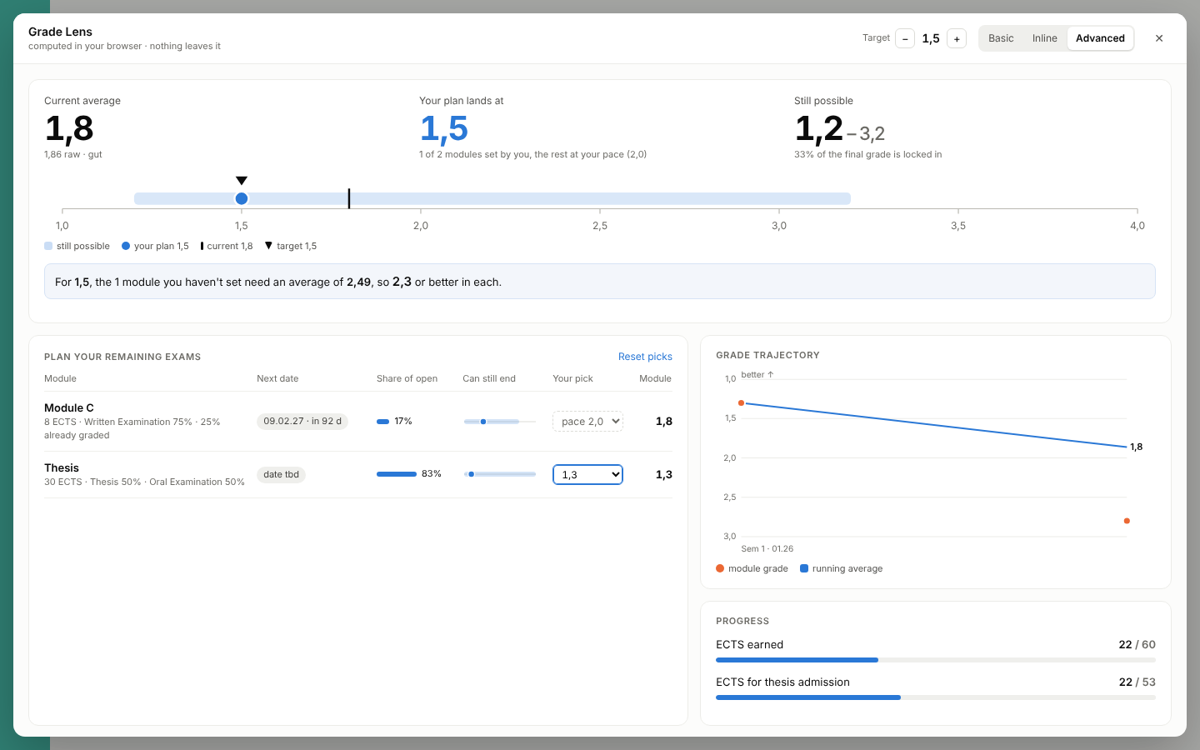
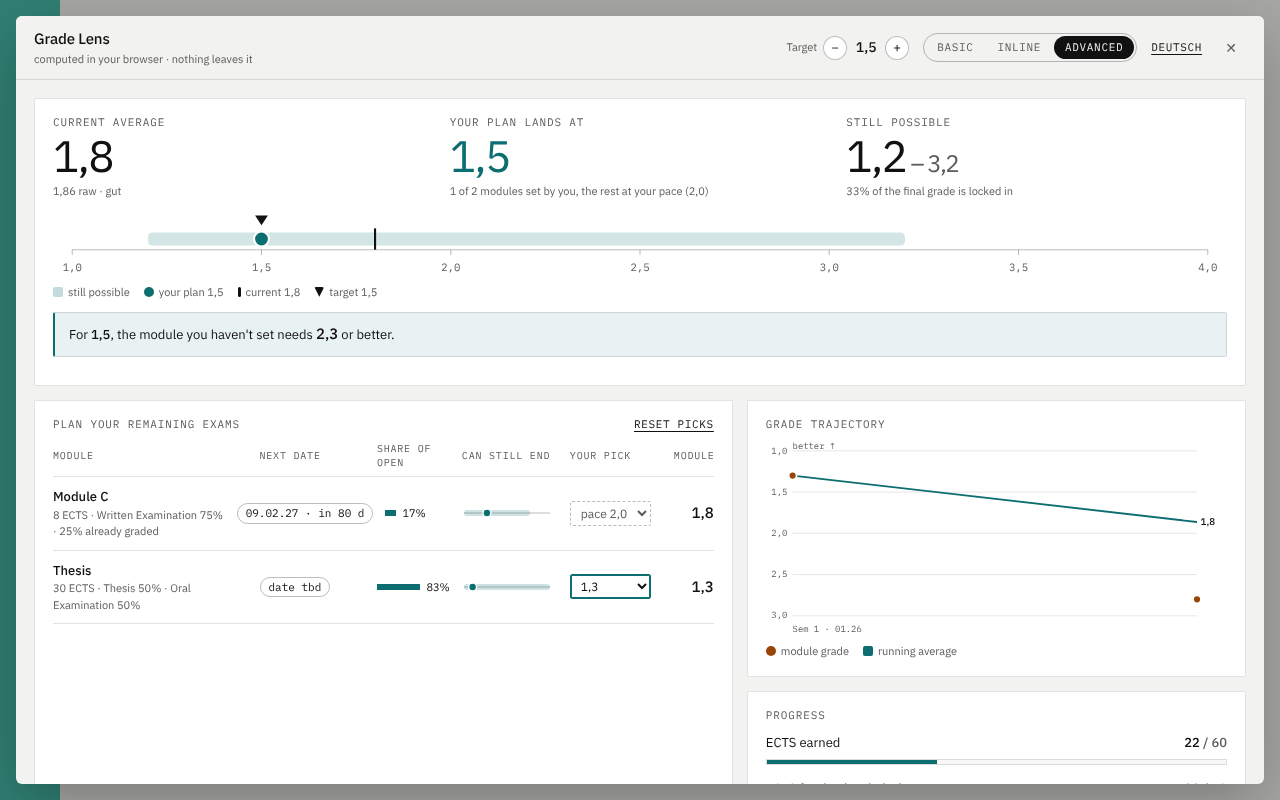
Release 1.0.0: MIT licence, store listing and screenshots, build script, real-extension test
- manifest 1.0.0 with _locales (en, de), homepage, web-accessible fonts
- scripts/build.sh -> dist/gradelens-1.0.0.zip (only what the extension needs)
- store/LISTING.md: EN and DE text, single purpose, permission reasons, data use
- store/screenshots: 1280x800 from the synthetic fixture, EN and DE, light and dark
- test/e2e/extension.py: loads the built zip in Chrome against a stand-in oc-digital.de
  page; checks the real hook, the study book and the bundled font
- README: German, dark mode, exact maths, known postMessage limit, privacy link; CHANGELOG
- inline bar: spacing between view switch and language link

diff --git a/src/panel.js b/src/panel.js
@@ -746,6 +746,7 @@
       border-left: 2px solid var(--accent); border-radius: 2px; padding: 12px 16px; }
     .ib-left { display: flex; flex-wrap: wrap; align-items: center; gap: 18px; }
     .ib-left strong { font-size: 15px; font-weight: 500; }
+    .ib-right { display: flex; align-items: center; gap: 14px; }
     .kv { display: inline-flex; align-items: baseline; gap: 6px; } .kv b { font-size: 20px; font-weight: 400; font-variant-numeric: tabular-nums; }
     .ib-need { grid-column: 1 / -1; display: flex; flex-wrap: wrap; align-items: center; gap: 4px 14px; }
     .ib-need .need { margin: 0; padding: 6px 10px; }`;

diff --git a/test/e2e/extension.py b/test/e2e/extension.py
@@ -1,0 +1,31 @@
+"""Loads the built zip as a real unpacked extension and serves a fake oc-digital.de page,
+so the real content scripts, i18n, fonts and storage run as they would for a student.
+Usage: sh scripts/build.sh && python3 test/e2e/extension.py /path/to/unzipped"""
+import os, sys, pathlib, tempfile
+from playwright.sync_api import sync_playwright
+ext = sys.argv[1]
+root = pathlib.Path(__file__).resolve().parents[2]
+page_html = (root / "test/e2e/harness.html").read_text()
+# the real extension injects its own scripts: strip the harness copies and the test-only shim
+page_html = "\n".join(l for l in page_html.splitlines() if "<script" not in l and "chrome.runtime =" not in l)
+fx = (root / "test/fixture.studybook.json").read_text()
+ok = True
+with sync_playwright() as p:
+    ctx = p.chromium.launch_persistent_context(tempfile.mkdtemp(), executable_path=os.environ.get("CHROME_PATH") or None,
+        headless=True, args=[f"--disable-extensions-except={ext}", f"--load-extension={ext}", "--headless=new"], viewport={"width": 1440, "height": 900})
+    ctx.route("https://oc-digital.de/**", lambda r: r.fulfill(status=200, content_type="text/html", body=page_html + """
+<script>fetch('/campus/api/epm/studybook/1').then(r=>r.text())</script>""") if "studybook" not in r.request.url else r.fulfill(status=200, content_type="application/json", body=fx))
+    pg = ctx.new_page(); errs = []; pg.on("pageerror", lambda e: errs.append(str(e)))
+    pg.goto("https://oc-digital.de/node/6148"); pg.wait_for_timeout(1500)
+    has = pg.evaluate("!!document.getElementById('grade-lens-root')")
+    print("content script attached:", "PASS" if has else "FAIL"); ok &= has
+    pg.evaluate("document.getElementById('grade-lens-root').shadowRoot.querySelector('.launcher').click()"); pg.wait_for_timeout(600)
+    big = pg.evaluate("document.getElementById('grade-lens-root').shadowRoot.querySelector('.big')?.textContent")
+    print("study book read through the real hook:", big, "PASS" if big == "1,8" else "FAIL"); ok &= big == "1,8"
+    font = pg.evaluate("document.fonts.check('16px \"GL Plex Sans\"') && [...document.fonts].some(f => f.family.includes('GL Plex') && f.status === 'loaded')")
+    print("bundled font loaded:", "PASS" if font else "FAIL"); ok &= bool(font)
+    sw = [w.url for w in ctx.service_workers]
+    print("page errors:", errs); ok &= not errs
+    pg.screenshot(path=str(root / "test/e2e/out/ext_dashboard.png"))
+    ctx.close()
+sys.exit(0 if ok else 1)

diff --git a/test/e2e/shots.py b/test/e2e/shots.py
@@ -1,0 +1,28 @@
+"""Store and README screenshots from the synthetic fixture (never real grades). 1280x800 as the Chrome Web Store asks."""
+import os, pathlib
+from playwright.sync_api import sync_playwright
+root = pathlib.Path(__file__).resolve().parents[2]
+fx = (root / "test/fixture.studybook.json").read_text()
+R = "document.getElementById('grade-lens-root').shadowRoot"
+def load(pg, lang):
+    pg.goto("http://localhost:8765/test/e2e/harness.html"); pg.wait_for_timeout(300)
+    pg.evaluate("t => window.postMessage({source:'fom-grade-lens',kind:'studybook',url:'https://oc-digital.de/campus/api/epm/studybook/1',text:t}, location.origin)", fx)
+    pg.wait_for_timeout(200)
+    pg.evaluate(f"{R}.querySelector('.launcher').click()"); pg.wait_for_timeout(200)
+    if lang == "de": pg.evaluate(f"{R}.querySelector('[data-act=lang]').click()"); pg.wait_for_timeout(200)
+    pg.evaluate(f"""() => {{ const s=[...{R}.querySelectorAll('select[data-mod]')].find(x=>x.getAttribute('aria-label').includes('Thesis')); s.value='1.3'; s.dispatchEvent(new Event('change',{{bubbles:true}})); }}"""); pg.wait_for_timeout(200)
+with sync_playwright() as p:
+    b = p.chromium.launch(executable_path=os.environ.get("CHROME_PATH") or None)
+    for lang in ("en", "de"):
+        for scheme in ("light", "dark"):
+            pg = b.new_page(viewport={"width": 1280, "height": 800}, color_scheme=scheme)
+            load(pg, lang)
+            pg.screenshot(path=str(root / f"store/screenshots/{lang}-1-advanced-{scheme}.png"))
+            if scheme == "light":
+                pg.evaluate(f"{R}.querySelector('[data-view=drawer]').click()"); pg.wait_for_timeout(250)
+                pg.screenshot(path=str(root / f"store/screenshots/{lang}-2-basic.png"))
+                pg.evaluate(f"{R}.querySelector('[data-view=inline]').click()"); pg.wait_for_timeout(500)
+                pg.screenshot(path=str(root / f"store/screenshots/{lang}-3-inline.png"))
+            pg.close()
+    b.close()
+print("ok")

diff --git a/test/e2e/run_all.py b/test/e2e/run_all.py
@@ -8,6 +8,13 @@ try:
         print(f"== {t} =="); out = subprocess.run([sys.executable, f"test/e2e/{t}"], capture_output=True, text=True)
         print(out.stdout.strip()); 
         if out.returncode or "FAIL" in out.stdout or "Error" in out.stderr: failed = True; print(out.stderr[-2000:])
+    # the built extension, loaded for real in Chrome against a fake oc-digital.de page
+    import tempfile, zipfile
+    z = subprocess.run(["sh", "scripts/build.sh"], capture_output=True, text=True).stdout.split()[0]
+    d = tempfile.mkdtemp(); zipfile.ZipFile(z).extractall(d)
+    print("== extension.py =="); out = subprocess.run([sys.executable, "test/e2e/extension.py", d], capture_output=True, text=True)
+    print(out.stdout.strip())
+    if out.returncode: failed = True; print(out.stderr[-2000:])
 finally:
     srv.terminate()
 sys.exit(1 if failed else 0)

diff --git a/store/LISTING.md b/store/LISTING.md
@@ -1,0 +1,79 @@
+# Chrome Web Store listing
+
+Everything to paste into the developer dashboard for v1.0.0. Upload file: `dist/gradelens-1.0.0.zip` (`npm run build`).
+
+## Store listing
+
+**Name** (from `_locales`): Grade Lens for FOM · German: Grade Lens für die FOM
+
+**Summary** (max 132 characters, from `_locales`):
+- EN: Your FOM grade trajectory, final-grade range and what you need in each open exam. Runs entirely in your browser.
+- DE: Dein FOM-Notenverlauf, die mögliche Endnote und was du in jeder offenen Prüfung brauchst. Läuft komplett im Browser.
+
+**Category:** Education
+
+**Language:** English (default), German
+
+**Description (EN):**
+
+Grade Lens is a free, independent tool for students at FOM University of Applied Sciences.
+
+Open Study progress in the FOM Online Campus and Grade Lens shows you:
+- your current average and how it got there, module by module
+- the range your final grade can still land in, and how much of it is already fixed
+- what you need in each open exam to reach the final grade you aim for
+- your next exam dates, with the next 14 days highlighted
+
+Pick the grade you expect in each open module and the final grade updates as you go. Choose from three views: a side panel, small notes on FOM's own module cards, or a full dashboard. English and German.
+
+Private by design: Grade Lens only reads the study book the portal already loads for you. It sends nothing anywhere, has no server, no account and no tracking. Your view, target and picks are saved on your own device only.
+
+Independent student project, not affiliated with or endorsed by FOM. The final-grade formula is an assumption (ECTS-weighted mean of module grades, truncated after the first decimal); check it against your Prüfungsordnung.
+
+Source code (MIT): https://github.com/omkar-k0/gradelens
+
+**Description (DE):**
+
+Grade Lens ist ein kostenloses, unabhängiges Tool für Studierende der FOM Hochschule.
+
+Öffne den Studienverlauf im FOM Online Campus und Grade Lens zeigt dir:
+- deinen aktuellen Schnitt und wie er sich Modul für Modul entwickelt hat
+- in welchem Bereich deine Endnote noch landen kann und wie viel davon schon feststeht
+- was du in jeder offenen Prüfung für deine Wunsch-Endnote brauchst
+- deine nächsten Prüfungstermine, die nächsten 14 Tage hervorgehoben
+
+Wähle für jedes offene Modul die Note, die du erwartest, und die Endnote passt sich sofort an. Drei Ansichten: Seitenleiste, kurze Hinweise auf den Modulkarten der FOM oder ein volles Dashboard. Auf Deutsch und Englisch.
+
+Datensparsam: Grade Lens liest nur das Studienbuch, das das Portal ohnehin für dich lädt. Es sendet nichts, hat keinen Server, kein Konto und kein Tracking. Ansicht, Ziel und deine Auswahl werden nur auf deinem Gerät gespeichert.
+
+Unabhängiges Studierendenprojekt, nicht mit der FOM verbunden oder von ihr unterstützt. Die Formel für die Endnote ist eine Annahme (ECTS-gewichteter Mittelwert der Modulnoten, nach der ersten Nachkommastelle abgeschnitten); prüfe sie mit deiner Prüfungsordnung.
+
+Quellcode (MIT): https://github.com/omkar-k0/gradelens
+
+**Screenshots** (1280×800, synthetic data only): `store/screenshots/en-*.png`, and the `de-*` set for the German listing.
+
+**Icon:** `icons/icon128.png`
+
+## Privacy tab
+
+**Single purpose:** Show FOM students their grade trajectory, possible final-grade range and the grades they need in open exams, calculated from the study book the FOM Online Campus already loads.
+
+**Permission justifications:**
+- `storage`: saves the chosen view, language, target grade and the student's own grade picks on this device, so they are still there next time. No grades from the portal are stored.
+- `activeTab`: lets the toolbar popup show a short summary of the FOM tab the student has open and switch its view.
+- Host access `https://oc-digital.de/*` (content scripts): the FOM Online Campus is the only site where Grade Lens runs. It reads the study book response the page already requested; it makes no requests of its own.
+
+**Remote code:** No. All code ships in the package; fonts are bundled.
+
+**Data usage:** Check "Personally identifiable information": no. "Authentication information": no. "Personal communications": no. "Location": no. "Web history": no. "User activity": no. "Website content": the extension processes grades shown on the FOM portal, locally only. Certify: not sold, not used for unrelated purposes, not used for creditworthiness.
+
+If the dashboard asks whether the extension handles "Website content": yes, read locally to compute the averages, never transmitted.
+
+**Privacy policy URL:** https://omkarkhadilkar.dev/gradelens/privacy/
+
+## Before you submit
+
+- [ ] German texts checked by a native speaker (listing, `_locales/de`, `src/i18n.js`)
+- [ ] Final-grade formula confirmed (ask your professor or the Prüfungsamt)
+- [ ] One-time developer registration fee paid on your Google account
+- [ ] Privacy policy page live at the URL above

diff --git a/README.md b/README.md
@@ -2,7 +2,7 @@
 
 [![ci](https://github.com/omkar-k0/gradelens/actions/workflows/ci.yml/badge.svg)](https://github.com/omkar-k0/gradelens/actions/workflows/ci.yml)
 
-A Chrome extension for students at FOM University of Applied Sciences. It shows your grade trajectory, the range your final grade can still land in, and what you need in each open exam to hit a target.
+A Chrome extension for students at FOM University of Applied Sciences. It shows your grade trajectory, the range your final grade can still land in, and what you need in each open exam to hit a target. In English and German.
 
 It runs entirely in your browser. There is no server, no account, and no data sent anywhere.
 
@@ -20,6 +20,8 @@ It runs entirely in your browser. There is no server, no account, and no data se
 - **Target setter:** choose a target final grade and see what the modules you haven't planned yet need.
 - **Final grade range:** best and worst case, and how much of your grade is already locked in.
 - **Exam countdown:** your next exam dates, with exams in the next 14 days highlighted.
+- **English and German**, following your browser language, with a switch in every view.
+- **Dark mode** for the panels and the popup, following your system setting.
 
 | Basic | Inline | Popup |
 |---|---|---|
@@ -32,11 +34,17 @@ The FOM Online Campus already loads your study book from an internal JSON endpoi
 ```
 src/hook.js      copies the study book response the portal already loads
 src/model.js     parsing, validation, averages, final range, what-if (pure functions)
+src/i18n.js      English and German text
 src/panel.js     the three views (Shadow DOM, SVG charts, no dependencies)
-popup/           toolbar popup to switch views
+popup/           toolbar popup to switch views and language
+fonts/           IBM Plex, bundled (no font server)
 ```
 
 ## Install
+
+From the Chrome Web Store: link follows once the listing is approved.
+
+From the source:
 
 1. Download or clone this repo.
 2. Open `chrome://extensions` and turn on **Developer mode**.
@@ -47,21 +55,31 @@ popup/           toolbar popup to switch views
 ## Assumptions
 
 - Grades are truncated after the first decimal, as the portal does for module grades.
-- The final grade is taken as the ECTS-weighted mean of all graded modules. This is not yet verified against the Prüfungsordnung.
+- The final grade is taken as the ECTS-weighted mean of all module grades, truncated after the first decimal. This is not yet confirmed against the Prüfungsordnung.
+- "What you need" is solved exactly: Grade Lens tries every official grade step, truncates each projected module grade, and reports the worst step that still reaches your target.
 - Only passed modules with a grade from 1,0 to 4,0 count. A failed attempt makes the module an open retake.
 
 ## Security
 
-All data from the portal is treated as untrusted. It is validated in one place and escaped when rendered. Messages from the page are only accepted for the study book URL. Permissions are limited to `storage` (your view and picks) and `activeTab` (for the popup).
+All data from the portal is treated as untrusted. It is validated in one place and escaped when rendered. Messages from the page are only accepted for the study book URL. Permissions are limited to `storage` (your view, language, target and picks) and `activeTab` (for the popup).
+
+One known limit: the study book reaches the extension through `window.postMessage` on the portal page, so another script running on that same page could also read it. That script could already read the same response from the portal itself, so Grade Lens adds no new access, but it is worth knowing.
+
+Privacy policy: https://omkarkhadilkar.dev/gradelens/privacy/
 
 ## Tests
 
 ```
-npm test            # unit and stress tests (21 tests, run in CI on every push)
+npm test            # unit, stress and language tests (25 tests, run in CI on every push)
 npm run test:e2e    # browser tests (Playwright; set CHROME_PATH to use a local Chrome)
+npm run build       # the Chrome Web Store zip in dist/
 ```
 
-CI runs the unit and stress tests on Node 22. The browser tests need a Chrome binary and stay local.
+CI runs the unit and stress tests on Node 22. The browser tests need a Chrome binary and stay local. The last browser test loads the built zip as a real extension against a stand-in FOM page.
+
+## Licence
+
+MIT, see `LICENSE`. Fonts: IBM Plex, SIL Open Font License (`fonts/OFL.txt`).
 
 ## Disclaimer
 

diff --git a/CHANGELOG.md b/CHANGELOG.md
@@ -1,0 +1,15 @@
+# Changelog
+
+## 1.0.0 · 21 Nov 2026
+
+First public release.
+
+- **Exact target maths.** "What you need" is now solved over the official grade steps with every module grade truncated, as the portal does. The old linear estimate on raw grades could ask for a better grade than needed.
+- **German.** Every view and the popup in English and German. Follows the browser language; switch in any view.
+- **New look.** Colours, type and shapes from omkarkhadilkar.dev, IBM Plex bundled with the extension, dark mode for the panels and the popup.
+- **Release files.** MIT licence, Chrome Web Store listing and screenshots (`store/`), `npm run build` for the upload zip.
+- **Tests.** 25 unit tests; browser tests now also load the built extension in Chrome against a stand-in FOM page.
+
+## 0.4.0 · 9 Nov 2026
+
+Three views (Basic, Inline, Advanced), per-module what-if, target setter, final range, exam countdown.
